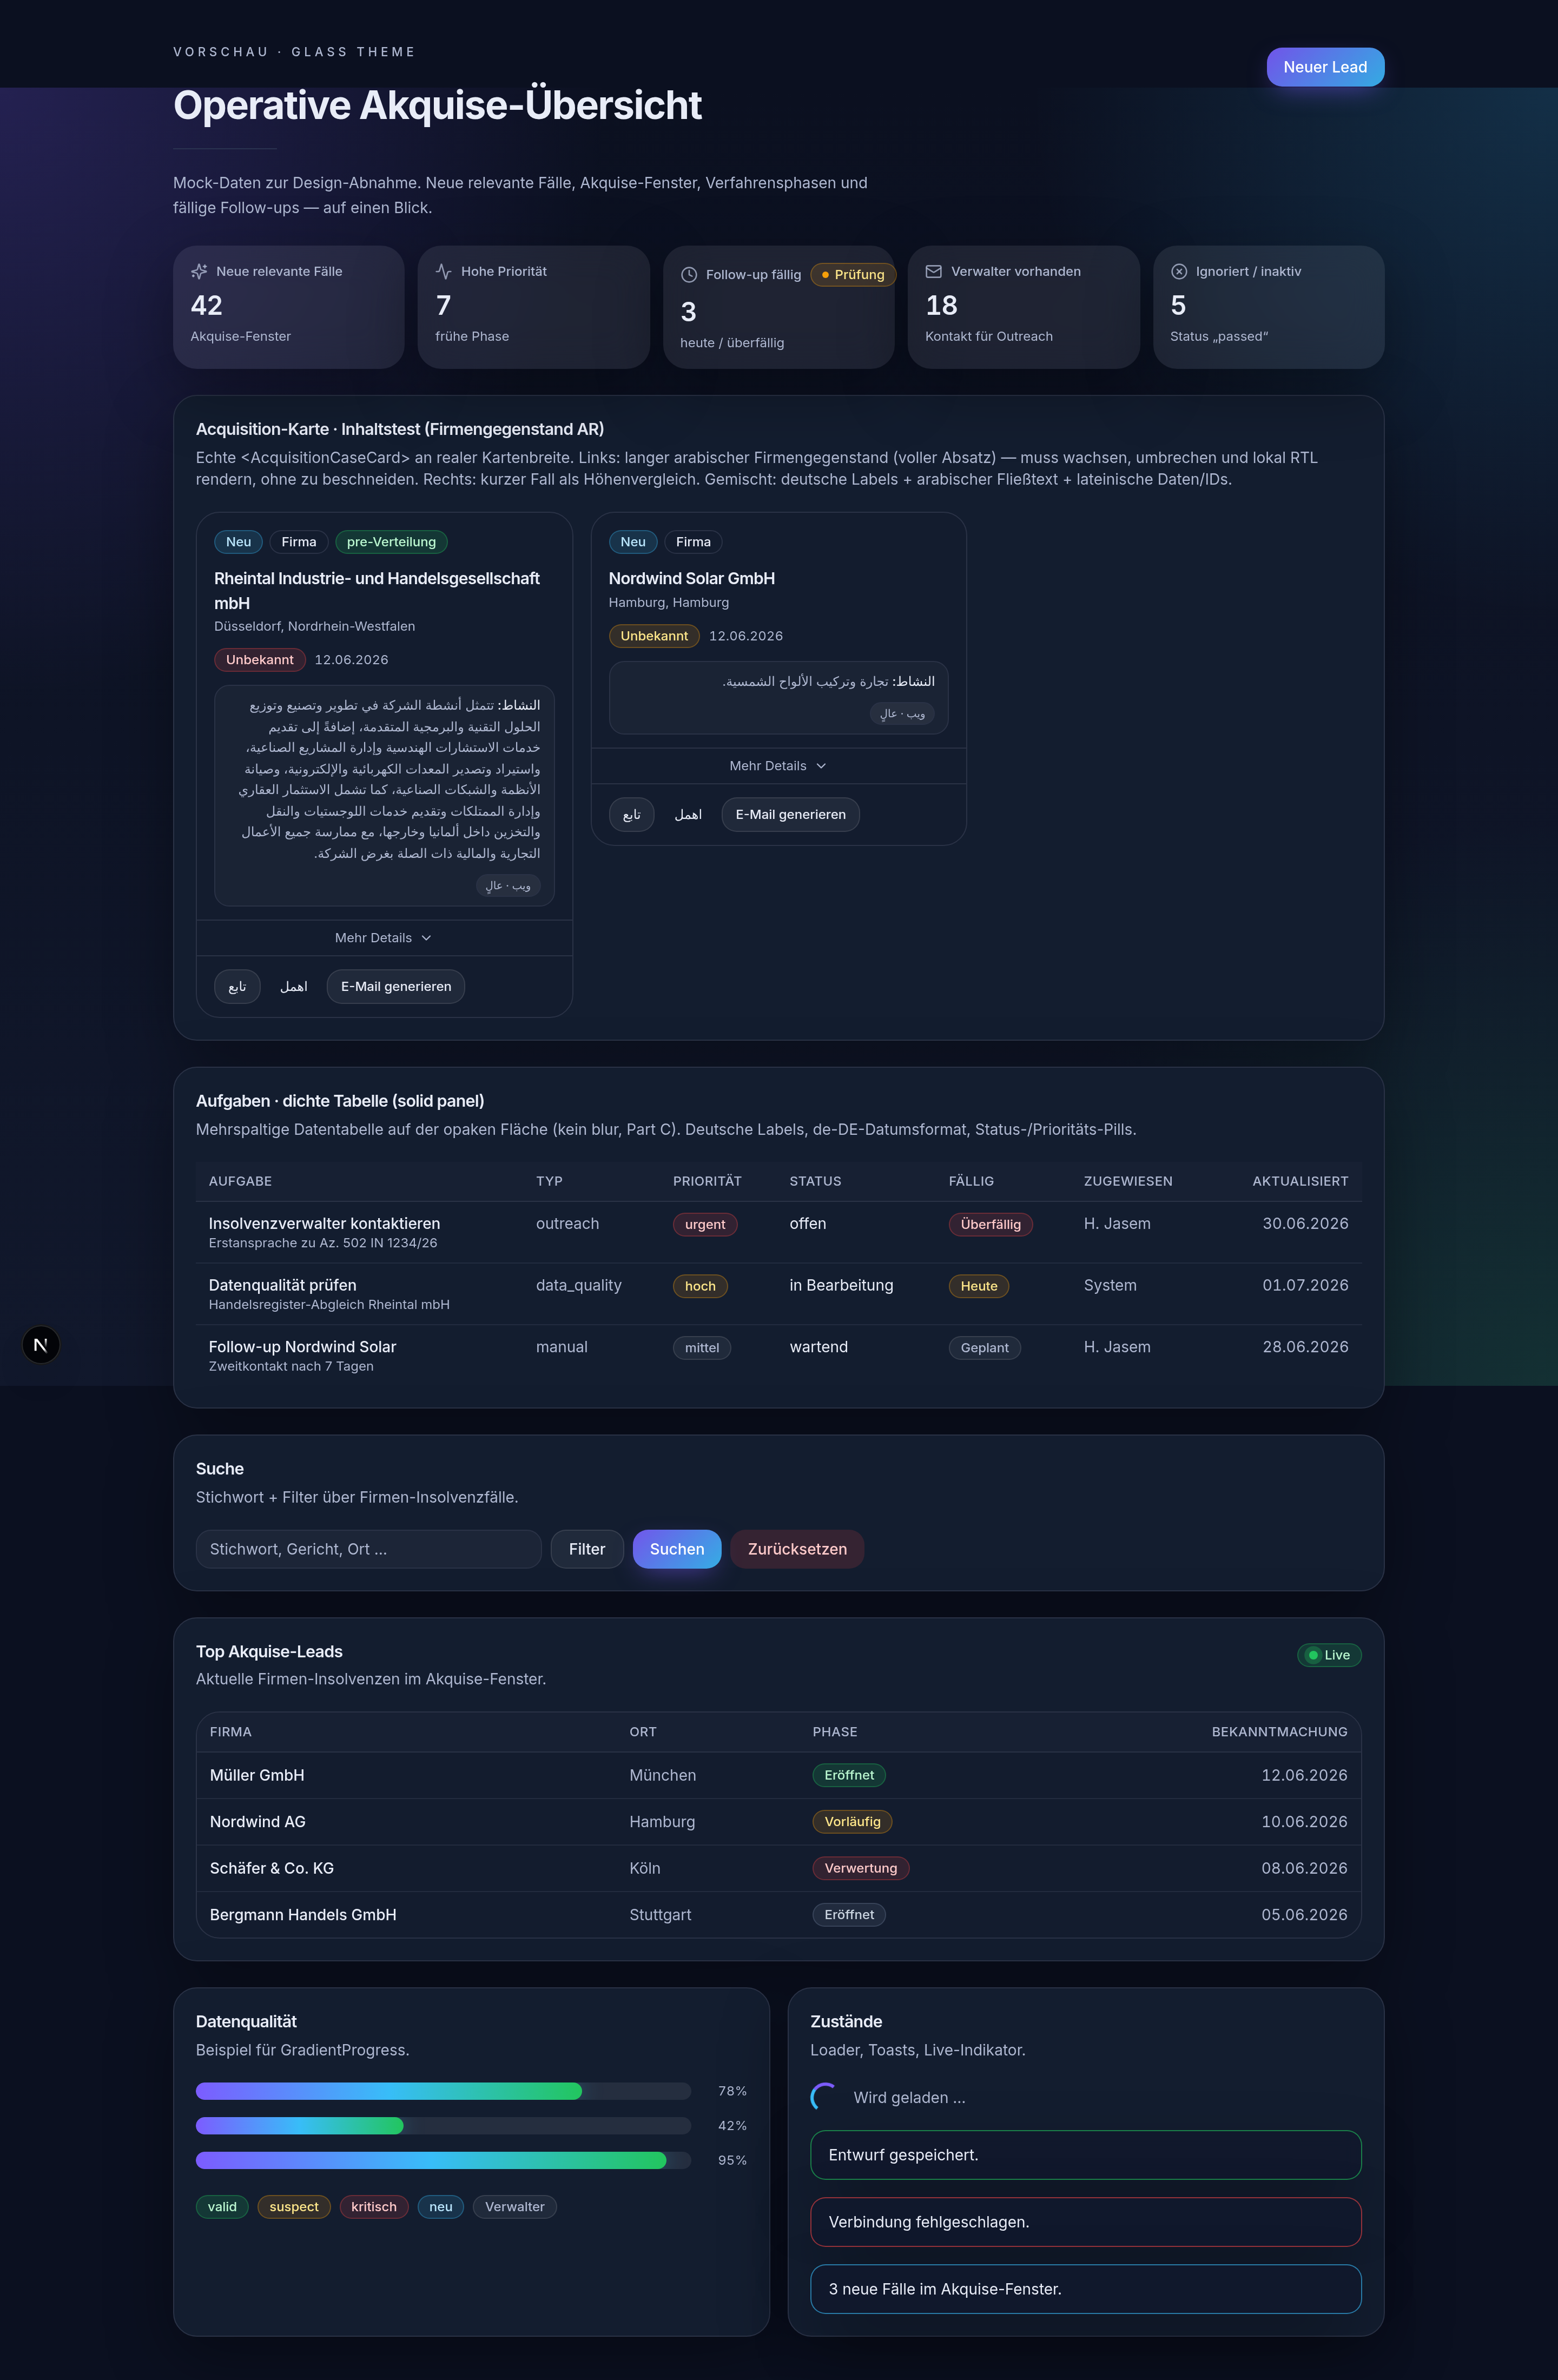
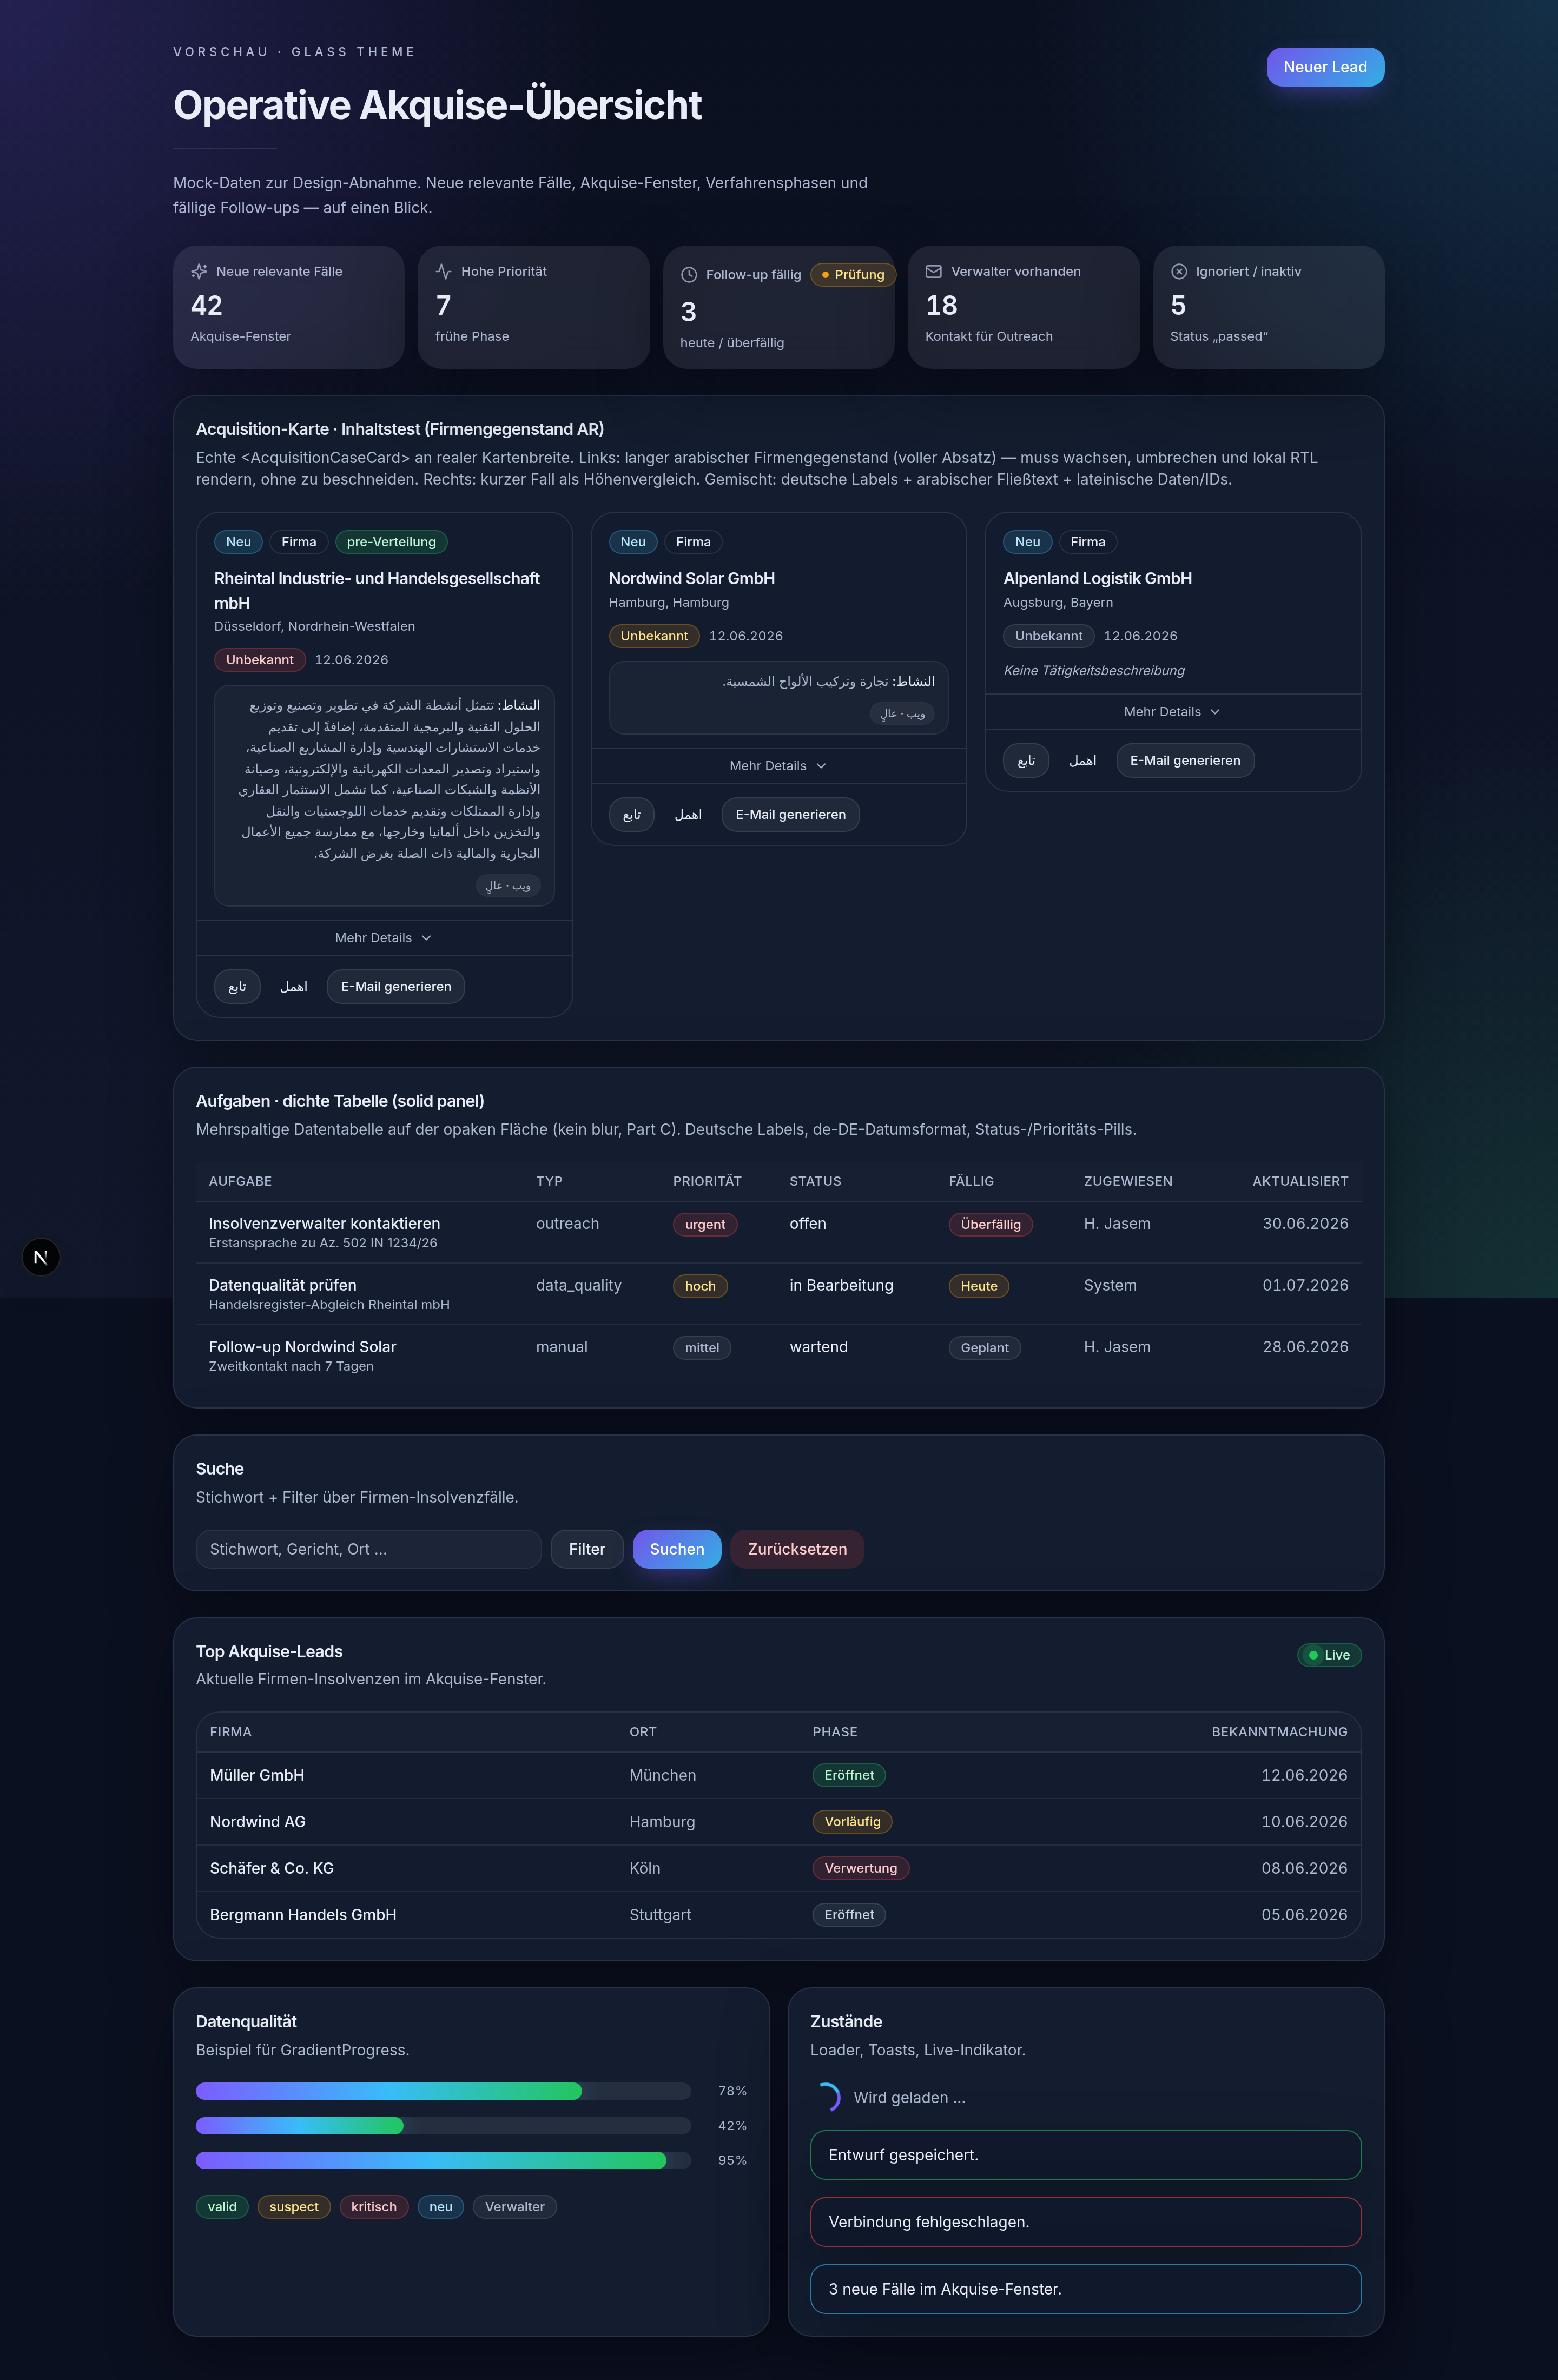
fix(acquisition-card): always show Firmengegenstand block + empty state
The company-activity Arabic summary (company_activity_ar) was only rendered
when present, so on the ~59% of rows where it is NULL the card showed a bare
gap and read as "missing".

- Render the activity block ALWAYS on the collapsed/outer card (company
  cards): the Arabic summary when present, else a quiet muted placeholder
  "Keine Tätigkeitsbeschreibung" — layout stays stable.
- Present-state keeps the content-safety rules: dir="rtl" lang="ar",
  right-aligned (logical props), [overflow-wrap:anywhere], no line-clamp,
  grows with content.

Wiring verified (no query change needed):
- v_cockpit_acquisition_inbox is read by lib/cockpit/acquisition-inbox.
  queries.ts; its .select() already includes company_activity_ar and
  company_activity_de, mapped in acquisition-inbox.tsx (rowToCard). This is
  the only query feeding <AcquisitionCaseCard>.
- v_cockpit_my_watchlist (estate_summary_ar) is read only by the unused
  getMyWatchlist(); no card renders from it, so estate_summary_ar is not
  wired anywhere (no design surface). company_activity_ar ≠ estate_summary_ar
  kept distinct.

Preview: added a NULL-activity case to /theme-preview to show the
placeholder; refreshed acquisition-card-arabic.png, dashboard-glass.png,
theme-preview.html.

Verified: typecheck clean; production build passes.

Claude-Session: https://claude.ai/code/session_01KgTgpYm6PZnnZkec9waXKH

diff --git a/components/cockpit/acquisition-case-card.tsx b/components/cockpit/acquisition-case-card.tsx
@@ -260,30 +260,40 @@ function AcquisitionCaseCardImpl({ data }: { data: CaseCardData }) {
           </span>
         </div>
 
-        {/* Company business activity (Gegenstand), Arabic — exterior block, shown
-            only for companies with a real statement; nothing when empty/NULL.
-            Renders RTL locally (dir="rtl") inside the otherwise-German LTR card,
-            using logical properties. Full text: never truncated, always wraps. */}
-        {activityAr ? (
-          <div
-            dir="rtl"
-            lang="ar"
-            className="mt-3 rounded-md border border-border bg-[rgba(255,255,255,0.03)] px-3 py-2 text-start"
-          >
-            <p className="text-[12px] leading-relaxed text-muted-foreground [overflow-wrap:anywhere]">
-              <span className="font-medium text-foreground">النشاط: </span>
-              {activityAr}
+        {/* Company business activity (Gegenstand / Firmengegenstand), Arabic —
+            ALWAYS rendered on the card exterior (collapsed view) for company
+            cards, so it's readable without opening the card. Field:
+            company_activity_ar from v_cockpit_acquisition_inbox.
+            When present: RTL locally (dir="rtl" lang="ar") inside the German
+            LTR card, right-aligned via logical props, full text (never
+            truncated, always wraps, grows with content). When NULL (coverage is
+            partial): a quiet muted placeholder keeps the layout stable. */}
+        {data.kind === "company" ? (
+          activityAr ? (
+            <div
+              dir="rtl"
+              lang="ar"
+              className="mt-3 rounded-md border border-border bg-[rgba(255,255,255,0.03)] px-3 py-2 text-start"
+            >
+              <p className="text-[12px] leading-relaxed text-muted-foreground [overflow-wrap:anywhere]">
+                <span className="font-medium text-foreground">النشاط: </span>
+                {activityAr}
+              </p>
+              {activitySourceLabel || activityConfidenceLabel ? (
+                <div className="mt-1.5">
+                  <span className="inline-block whitespace-nowrap rounded-full border border-border bg-[rgba(255,255,255,0.06)] px-2 py-0.5 text-[10px] font-medium text-muted-foreground">
+                    {[activitySourceLabel, activityConfidenceLabel]
+                      .filter(Boolean)
+                      .join(" · ")}
+                  </span>
+                </div>
+              ) : null}
+            </div>
+          ) : (
+            <p className="mt-3 text-[12px] italic text-muted-foreground">
+              Keine Tätigkeitsbeschreibung
             </p>
-            {activitySourceLabel || activityConfidenceLabel ? (
-              <div className="mt-1.5">
-                <span className="inline-block whitespace-nowrap rounded-full border border-border bg-[rgba(255,255,255,0.06)] px-2 py-0.5 text-[10px] font-medium text-muted-foreground">
-                  {[activitySourceLabel, activityConfidenceLabel]
-                    .filter(Boolean)
-                    .join(" · ")}
-                </span>
-              </div>
-            ) : null}
-          </div>
+          )
         ) : null}
       </button>
 

diff --git a/app/theme-preview/page.tsx b/app/theme-preview/page.tsx
@@ -87,6 +87,20 @@ const SHORT_CASE: CaseCardData = {
   companyActivityAr: "تجارة وتركيب الألواح الشمسية.",
 };
 
+// Coverage is partial (~41%): this card has NO activity → quiet placeholder.
+const NULL_CASE: CaseCardData = {
+  ...TEST_CASE,
+  key: "preview-null-ar",
+  title: "Alpenland Logistik GmbH",
+  city: "Augsburg",
+  bundesland: "Bayern",
+  phasePriority: "medium",
+  preVerteilung: false,
+  companyActivityAr: null,
+  companyActivitySource: null,
+  companyActivityConfidence: null,
+};
+
 export default function ThemePreviewPage() {
   return (
     <main className="mx-auto w-full max-w-[1200px] space-y-6 p-6 lg:p-10">
@@ -114,6 +128,7 @@ export default function ThemePreviewPage() {
         <div id="card-test" className="grid grid-cols-1 items-start gap-4 sm:grid-cols-2 xl:grid-cols-3">
           <AcquisitionCaseCard data={TEST_CASE} />
           <AcquisitionCaseCard data={SHORT_CASE} />
+          <AcquisitionCaseCard data={NULL_CASE} />
         </div>
       </SectionCard>
 